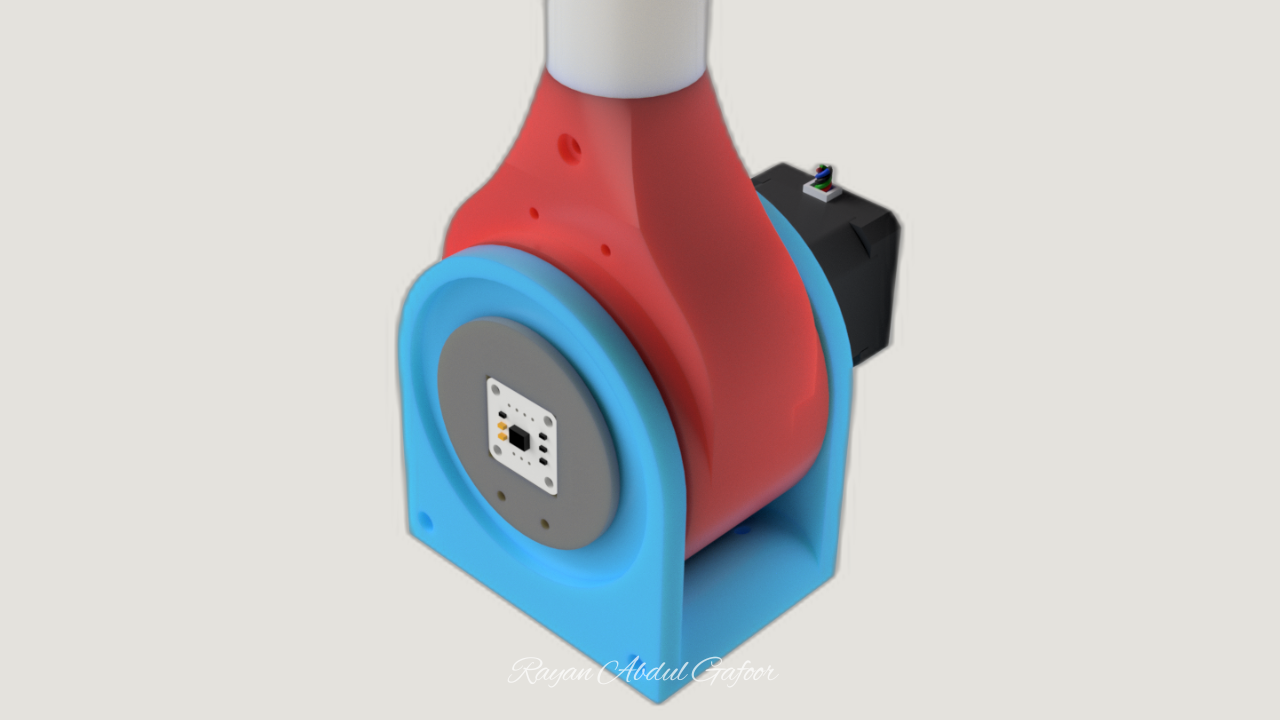
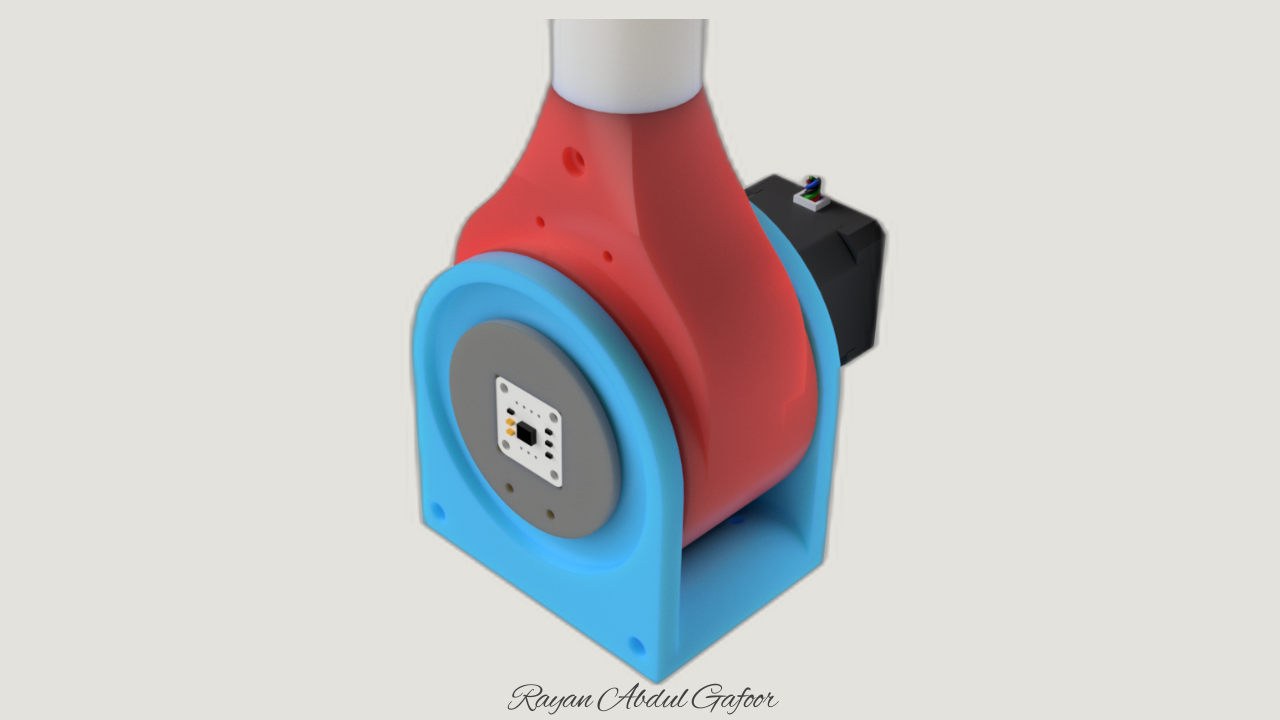
heroshot

Changed region(s): [[0.2812, 0.0, 0.7188, 1.0], [0.4688, 0.3361, 0.5, 0.3667], [0.4062, 0.4583, 0.4375, 0.4889]]

diff --git a/README.md b/README.md
@@ -4,7 +4,7 @@ Low-backlash reverse-cycloidal robotic actuator for articulated robotic manipula
 
 ![Hero Image](assets/renders/cycloidal_hero_render.png)
 
-[Watch the Presentation Video](https://www.youtube.com/watch?v=Ntv47qB1Hks&embeds_referring_euri=https%3A%2F%2Fwww.rayanabdulgafoor.in%2F)
+[Presentation Video](https://www.youtube.com/watch?v=Ntv47qB1Hks&embeds_referring_euri=https%3A%2F%2Fwww.rayanabdulgafoor.in%2F)
 
 ---
 ## Full Project Documentation
